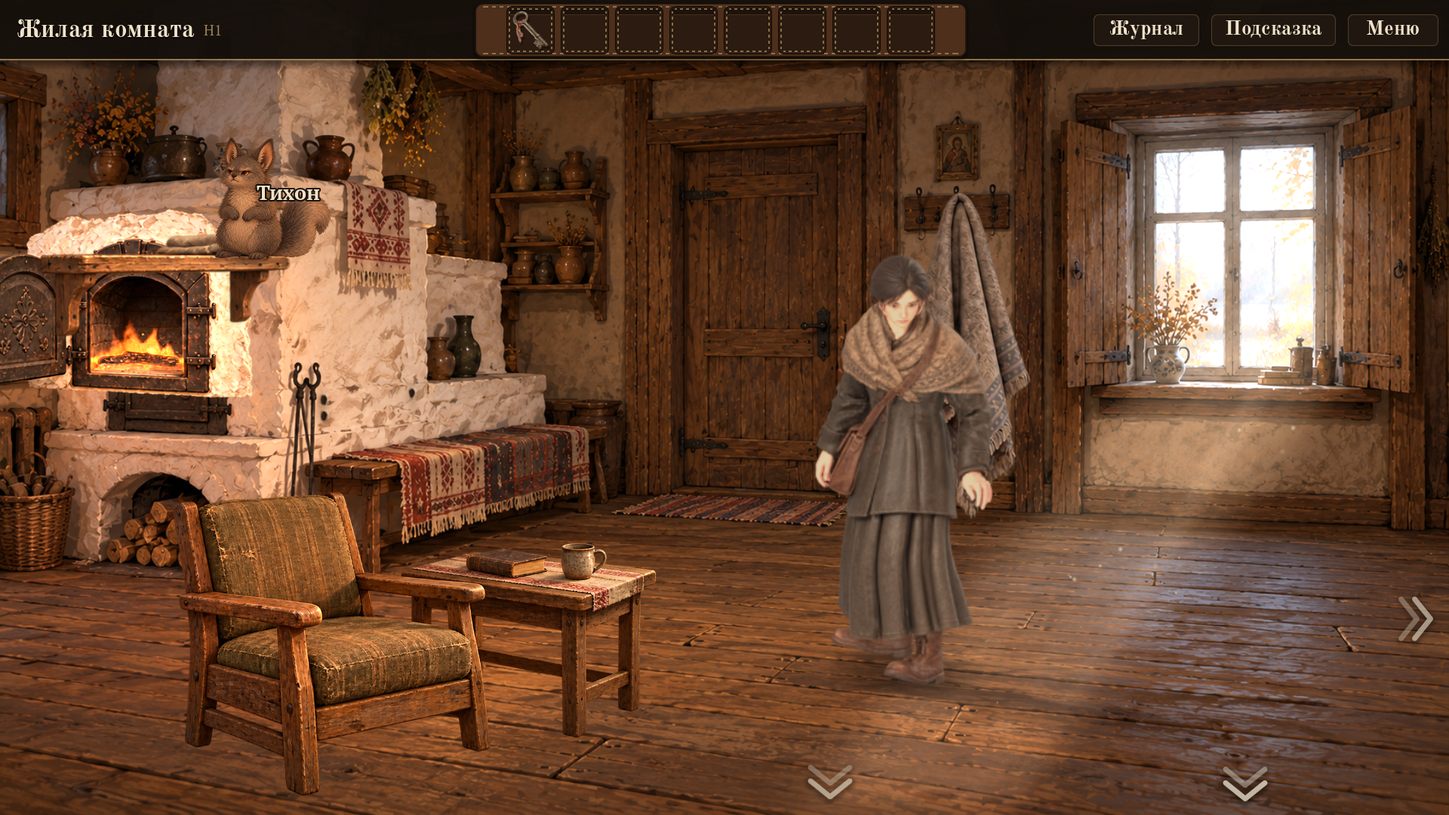
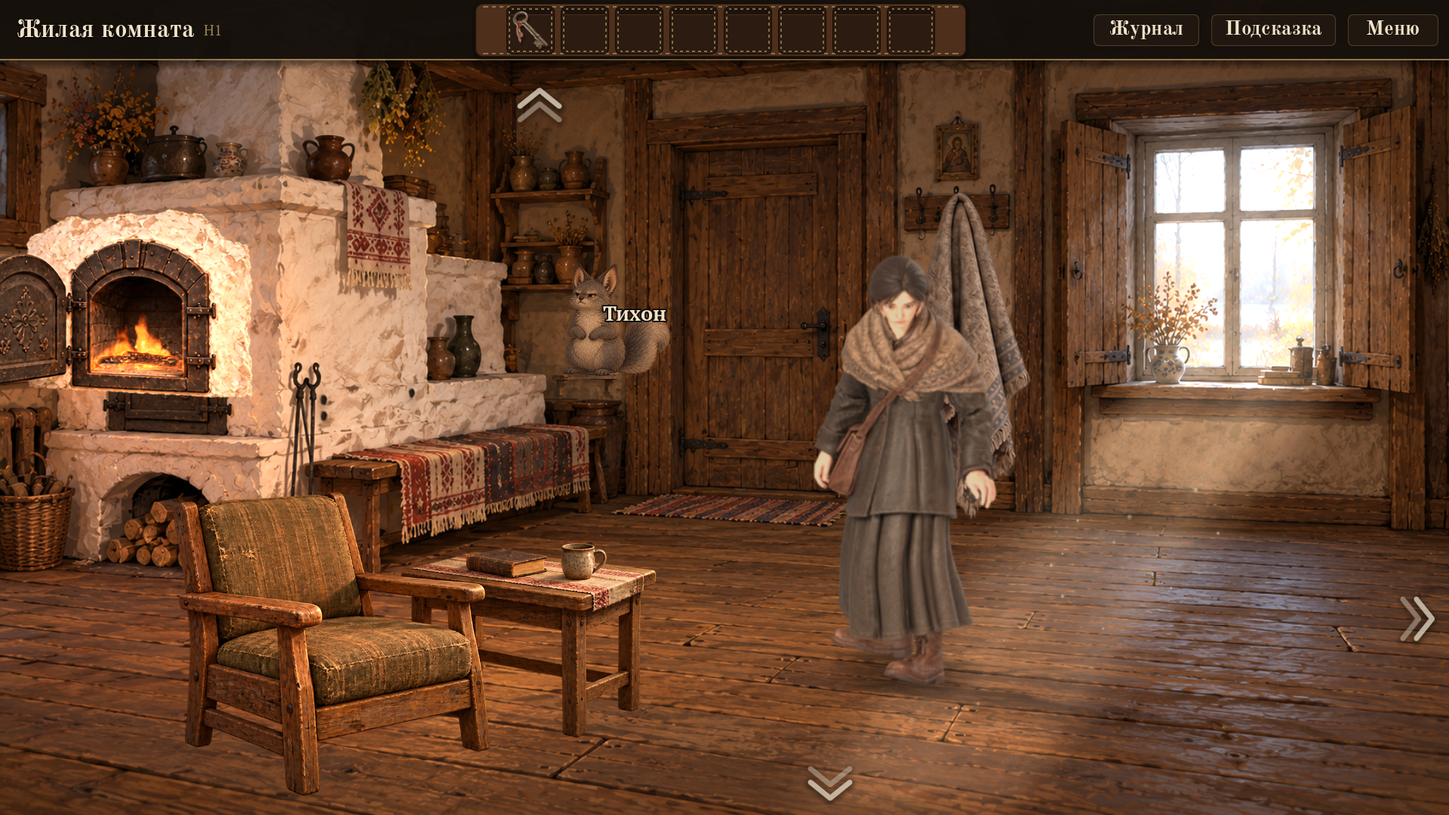
H1: полка B «у стола» — со лба печи над горячей дверцей на стену у двери на крыльцо, над столиком; Тихон на ней хвостом к двери
- По сценарию Q04 хвост Тихона не должен быть у горячей дверцы, а рисунок ChatGPT полки B висел на челе печи над ней (решение координатора 18.10).
- Полка перенесена на заднюю стену слева от двери на крыльцо, под угловые полки, над кадкой — в кадре прямо над столиком; масштаб по глубине стены, мягкая тень (tools/make_h1_layers.py, оригинал в assets/incoming не тронут); там же два гнезда под неё (слой holes_table).
- Тихон в варианте B — на этой полке (tikhon.json place.H1), смотрит влево, хвост к двери; хотспоты Тихона и полки следуют за ним.
- Тест test_h1: полка B не пересекает печь и дверцу, стоит на стене у двери, под ногами Тихона непрозрачная доска, хвост не к печи; гнёзда в двух местах. Кадр Docs/evidence/M1/H1_v2_07_shelf_b.png, приёмка п. 81, 88.

Claude-Session: https://claude.ai/code/session_01Qvdjz1zmfr41cRSvLxvjeK

diff --git a/tools/make_h1_layers.py b/tools/make_h1_layers.py
@@ -8,9 +8,13 @@
       длинная задняя кромка — вдоль грани, ближний к зрителю конец больше дальнего. Плюс мягкая тень на
       побелке, кочерги у угла печи остаются перед полкой (вырез по тёмному железу фона).
   state_holes_stove.png — гнёзда креплений на боковой грани там, где встанет полка A (видны, пока её нет),
-      и едва заметный след снятых опор (побелку обновляли вокруг них: «вещи помнят место»). Под полку B
-      (чело печи над дверцей) гнёзд нет: при stove_lit тот участок перерисовывает слой открытой дверцы
-      state_stove_open (другой масштаб, створка слева) — гнёзда то пропадали бы, то легли бы на створку;
+      и едва заметный след снятых опор (побелку обновляли вокруг них: «вещи помнят место»);
+  state_shelf_table.png — полка B «у стола» (Q04 B). Рисунок ChatGPT assets/incoming/H1_state_shelf_table.png
+      висел на челе печи над дверцей, а по сценарию Q04 хвост Тихона не должен быть у горячей дверцы
+      (координатор 18.10). Полка перенесена на заднюю стену слева от двери на крыльцо — под угловые полки с
+      кувшинами, над кадкой, в кадре прямо над столиком; стена фронтальна, поэтому преобразование —
+      масштаб по глубине стены (210,6 px/м у пола y 590) и мягкая тень влево-вниз (свет из окна справа);
+  state_holes_table.png — два гнезда и след опор под полку B на той же стене (видны, пока её нет);
   fg_chair_arm.png      — ближний подлокотник кресла (вырез из fg_table_chair.png, тот же холст): рисуется
       над Тихоном, когда он сидит в кресле (порядок: кресло z 950 < Тихон < подлокотник).
 
@@ -38,6 +42,7 @@ from PIL import Image, ImageChops, ImageDraw, ImageFilter
 ROOT = Path(__file__).resolve().parent.parent
 OUT = ROOT / "game" / "assets" / "rooms" / "H1"
 SRC_SHELF = ROOT / "assets" / "incoming" / "H1_state_shelf_stove.png"
+SRC_SHELF_B = ROOT / "assets" / "incoming" / "H1_state_shelf_table.png"
 BG = ROOT / "game" / "assets" / "rooms" / "H1" / "bg.png"
 CHAIR = ROOT / "game" / "assets" / "rooms" / "H1" / "fg_table_chair.png"
 
@@ -61,6 +66,21 @@ SRC_TOP, SRC_BOT = -80.0, 140.0   # поля исходного четырёху
 
 # Гнёзда A: на стене под кронштейнами, (глубина d, высота h) в метрах.
 HOLES_A = [(0.27, 0.70), (0.27, 0.63), (0.88, 0.70)]
+# Полка B «у стола» (координатор 18.10: по сценарию Q04 хвост не у горячей дверцы, а рисунок ChatGPT висел над
+# ней на челе печи): задняя стена слева от двери на крыльцо, под угловыми полками с кувшинами, над кадкой —
+# в кадре прямо над столиком. Стена фронтальна (параллельна кадру): перспектива сводится к масштабу по
+# глубине стены — пол у стены y 590 (низ двери), 210,6 px фона/м (камера 1,04 м). Свободный участок
+# побелки x 637–716 (левее — лежанка, правее — косяк двери), низ кронштейнов выше кадки (y 460).
+BACK_FLOOR_Y = 590.0
+PX_M_BACK = (BACK_FLOOR_Y - 371.0) / CAM_H
+B_X0, B_X1 = 637.0, 716.0           # концы доски, px фона
+B_TOP_H = 0.75                      # верх доски над полом, м
+# Исходный рисунок B: доска x 47–333, верхняя кромка y 294 (холст 1672x941, по альфе).
+SRC_B_A = (47.0, 294.0)
+SRC_B_B = (333.0, 294.0)
+SRC_B_TOP, SRC_B_BOT = -40.0, 100.0
+# Гнёзда B — на полосах кронштейнов у стены (x по прямой кромке кронштейна), чуть ниже доски.
+HOLES_B = [(644.0, 444.0), (703.0, 444.0)]
 # Кочерги у угла печи (железо темнее LUM_IRON) — перед полкой.
 POKER_BOX = (325, 400, 385, 520)
 LUM_IRON = 72
@@ -201,6 +221,52 @@ def build_holes_a() -> Image.Image:
     return img
 
 
+def back_y(h: float) -> float:
+    """y на задней стене (фронтальной) для высоты h м над полом."""
+    return 371.0 + (CAM_H - h) * PX_M_BACK
+
+
+def shelf_b_transform():
+    import cv2
+    s_len = SRC_B_B[0] - SRC_B_A[0]
+    k = (B_X1 - B_X0) / s_len                       # px фона на px рисунка
+    s = np.float32([[SRC_B_A[0], SRC_B_A[1] + SRC_B_TOP], [SRC_B_B[0], SRC_B_B[1] + SRC_B_TOP],
+                    [SRC_B_B[0], SRC_B_B[1] + SRC_B_BOT], [SRC_B_A[0], SRC_B_A[1] + SRC_B_BOT]])
+    y0 = back_y(B_TOP_H)
+    t = np.float32([[B_X0, y0 + SRC_B_TOP * k], [B_X1, y0 + SRC_B_TOP * k],
+                    [B_X1, y0 + SRC_B_BOT * k], [B_X0, y0 + SRC_B_BOT * k]])
+    return cv2.getPerspectiveTransform(s, t), k
+
+
+def build_shelf_b() -> Image.Image:
+    src = np.array(Image.open(SRC_SHELF_B).convert("RGBA"))
+    src[src[..., 3] < 24] = 0
+    m, _ = shelf_b_transform()
+    shelf = Image.fromarray(warp_rgba(src, m), "RGBA")
+    alpha = shelf.getchannel("A")
+    # Тень на стене: свет из окна справа скользит по задней стене — тень влево и вниз, мягкая.
+    sh_a = ImageChops.offset(alpha, -3, 4).filter(ImageFilter.GaussianBlur(3.5)).point(lambda v: int(v * 0.45))
+    shadow = Image.merge("RGBA", (*Image.new("RGB", (W, H), (40, 28, 18)).split(), sh_a))
+    out = Image.new("RGBA", (W, H), (0, 0, 0, 0))
+    out.alpha_composite(shadow)
+    out.alpha_composite(shelf)
+    return out
+
+
+def build_holes_b() -> Image.Image:
+    img = Image.new("RGBA", (W, H), (0, 0, 0, 0))
+    k = (B_X1 - B_X0) / (SRC_B_B[0] - SRC_B_A[0])
+    y_plank = back_y(B_TOP_H) + 20.0 * k
+    y_low = back_y(B_TOP_H) + 92.0 * k
+    for x, _y in HOLES_B:
+        ghost(img, [(x - 4, y_plank), (x + 4, y_plank), (x + 4, y_low), (x - 4, y_low)], 0.8)
+    ghost(img, [(B_X0 + 2, back_y(B_TOP_H) - 1), (B_X1 - 2, back_y(B_TOP_H) - 1), (B_X1 - 2, back_y(B_TOP_H) + 3), (B_X0 + 2, back_y(B_TOP_H) + 3)], 0.6)
+    r = 0.02 * PX_M_BACK
+    for i, (x, y) in enumerate(HOLES_B):
+        socket(img, x, y, r * 0.9, r, 0.6, 51 + i)
+    return img
+
+
 def build_chair_arm() -> Image.Image:
     ch = Image.open(CHAIR).convert("RGBA")
     mask = Image.new("L", ch.size, 0)
@@ -214,6 +280,8 @@ def outputs() -> dict[str, Image.Image]:
     return {
         "state_shelf_stove.png": build_shelf(),
         "state_holes_stove.png": build_holes_a(),
+        "state_shelf_table.png": build_shelf_b(),
+        "state_holes_table.png": build_holes_b(),
         "fg_chair_arm.png": build_chair_arm(),
     }
 
@@ -227,6 +295,10 @@ def geometry() -> dict:
         "shelf_a_top_mid_front": screen(wall_xy((d0 + d1) / 2, SHELF_TOP_H, 0.12)),
         "shelf_a_floor_mid": screen(wall_xy((d0 + d1) / 2, 0.0, 0.12)),
         "holes_a": [screen(wall_xy(d, h)) for d, h in HOLES_A],
+        "shelf_b_top_left": screen((B_X0, back_y(B_TOP_H))),
+        "shelf_b_top_right": screen((B_X1, back_y(B_TOP_H))),
+        "shelf_b_floor_y": round(BACK_FLOOR_Y * ART, 1),
+        "holes_b": [screen(p) for p in HOLES_B],
     }
 
 

diff --git a/Docs/ACCEPTANCE_M1.md b/Docs/ACCEPTANCE_M1.md
@@ -117,14 +117,14 @@
 | № | Что сделать | Как должно работать | Ок? |
 | --- | --- | --- | --- |
 | 80 | Новая игра → поговорить с Тамарой → переулок → улица → дом (H1). Ничего не трогать | Тихон уже в комнате, ничего не «появляется»: сидит на подушке переднего кресла слева, смотрит вправо, в комнату. Ближний подлокотник кресла — перед ним (закрывает хвост и низ), голова и уши видны над подлокотником; сидит на подушке, не висит в воздухе. Дышит, поводит ушами, хвост покачивается | |
-| 81 | Посмотреть на светлый бок печи над лавкой (правее кочерёг) | Три небольших тёмных гнезда в побелке: два одно над другим у кочерги, одно дальше вглубь. Похожи на дырки от креплений, не на пуговицы или пятна | |
+| 81 | Посмотреть на светлый бок печи над лавкой (правее кочерёг); затем на стену слева от двери на крыльцо, под угловыми полками с кувшинами | На боку печи — три небольших тёмных гнезда в побелке: два одно над другим у кочерги, одно дальше вглубь. На стене у двери — ещё два (второе место для полки, «крепления в двух местах»). Похожи на дырки от креплений, не на пуговицы или пятна | |
 | 82 | Навести курсор на дверцу печи, на побелку рядом с ней, на дрова в подпечье, на бок печи; потом на горшки над печью | Над всеми частями печи — подпись «Печь» рядом с курсором; над горшками и трубой — нет. Над гнёздами на боку — «Крепления для полки» | |
 | 83 | Щёлкнуть по дверце печи | Агата идёт к печи и встаёт прямо перед дверцей (левее кресла), печь растоплена: дверца открыта, огонь | |
 | 84 | Щёлкнуть по печи ещё раз | Текст: «Печь с лежанкой. Здесь место Тихона. Сбоку в побелке — старые гнёзда от креплений: место помнит, что здесь висело.» Новая фраза пока только субтитрами (старая запись голоса без неё не звучит, перезапись — отдельно) | |
 | 85 | Щёлкнуть по Тихону в кресле; затем открыть ставню и убрать мокрый платок | Щелчок по Тихону — короткий осмотр, разговор раньше времени не начинается. После платка — разговор, как раньше: «На сухое мокрое не кладут», «Ты здесь один?» — «Печь тоже здесь», «Ушла к Нине. Я жду». Тихон говорит из кресла (голос чуть слева). Повторный щелчок по нему — только осмотр, разговор не повторяется | |
 | 86 | Щёлкнуть по гнёздам на боку печи, выбрать «В углу у печи» | На боку печи появляется небольшая полка с подстилкой, прижатая к печи широкой стороной, с мягкой тенью на побелке; гнёзд больше не видно; кочерги остаются перед полкой. Тихон пересаживается из кресла на полку, смотрит в комнату, хвост свешивается. Дальше его реплики «Это кабинет…», «приёмные часы». Затем щелчок по Тихону на полке — его осмотр; по полке под ним — «Полка закреплена, подстилка на месте…»; по дверце — печь | |
 | 87 | F5 → F9; затем «Меню» → слот → «Сохранить» → новая игра → «Загрузить» этот слот | Тихон на полке у печи, полка на месте, гнёзд нет; ни один разговор не повторяется, в сумке ничего не прибавилось и не пропало | |
-| 88 | Другой вариант (новая игра или слот до полки): выбрать «У стола» | Полка над дверцей печи (как было), Тихон сидит на ней у правого края, хвост в сторону от дверцы — по сценарию Q04 «чтобы хвост не оказался возле горячей дверцы»; гнёзда на боку печи остаются (второе место крепления) | |
+| 88 | Другой вариант (новая игра или слот до полки): выбрать «У стола» | Полка появляется **не на печи**: на стене слева от двери на крыльцо, под угловыми полками, прямо над столиком, с мягкой тенью; гнёзда на этой стене скрыты под ней. Тихон пересаживается из кресла на эту полку, сидит на подстилке (не висит в воздухе), смотрит влево, хвост свешивается вправо — к двери, не к печи (по сценарию Q04 хвост не должен быть у горячей дверцы). Гнёзда на боку печи остаются (второе место крепления) | |
 | 89 | Выходы из H1: навести курсор на дверь в центре, на метку «вниз» у нижнего края, на метку «вверх» под потолком в углу над печью; щёлкнуть метку «вверх», на чердаке — выход вниз | Дверь — «На крыльцо» (нарисованная дверь, без стрелки); внизу одна метка — «В галерею»; вверху у печи — «На чердак» (стрелка вверх: лестницы на картинке нет, лаз — у трубы). Щелчок вверху — Агата идёт в угол к печи и поднимается на чердак; с чердака спускается туда же, к печи. Ни одна видимая дверь не ведёт «в никуда» | |
 
 Проход в галерею (H3) — у нижнего края кадра, «за спиной зрителя»: двери в галерею на картинке H1 нет (видимая дверь в центре — на крыльцо, Z2; слева печь и окно, справа — мастерская), метка «вниз» — из подсказок выходов (пп. 90–94). Проверено до передачи: автотест `game/tests/test_h1.gd` (клик по частям печи, Тихон с начала в кресле — ноги на подушке, порядок кресло < Тихон < подлокотник, M03 один раз и не после загрузки, полка A/B, гнёзда), веб-сборка настоящими кликами `node tools/h1_web.mjs`, кадры `Docs/evidence/M1/H1_v2_*.png`.

diff --git a/Docs/CURRENT_STATE.md b/Docs/CURRENT_STATE.md
@@ -14,7 +14,7 @@
 
 ### Жилая H1: печь, Тихон с самого начала, полка у печи, чердак вверх (18.10; приёмка — `ACCEPTANCE_M1.md` п. 80–89)
 - **Печь:** хотспот — тело печи от карниза до пола (дверца/устье, чело, подпечье, боковая грань), горшки над карнизом — не печь; стоянка перед дверцей (215, 795). Гнёзда, платок, Тихон, полка — поверх по `pick_priority`.
-- **Полка A** (`state_shelf_stove.png`) — рисунок ChatGPT переложен перспективой (OpenCV) на боковую грань печи широкой стороной к печи, тень на побелке, кочерги перед полкой — `tools/make_h1_layers.py` (геометрия грани в docstring; `--check`). Бриф ChatGPT не понадобился: на кадре 1920×1080 полка читается прикреплённой. **Гнёзда** (`state_holes_stove.png`, `unless q04_corner_stove`) — три гнезда и едва заметный след опор; под полку B гнёзд нет (там при stove_lit слой открытой дверцы).
+- **Полка A** (`state_shelf_stove.png`) — рисунок ChatGPT переложен перспективой (OpenCV) на боковую грань печи широкой стороной к печи, тень на побелке, кочерги перед полкой — `tools/make_h1_layers.py` (геометрия грани в docstring; `--check`). Бриф ChatGPT не понадобился: на кадре 1920×1080 полка читается прикреплённой. **Гнёзда** (`state_holes_stove.png`, `unless q04_corner_stove`) — три гнезда и едва заметный след опор. **Полка B** «у стола» (координатор 18.10: рисунок ChatGPT висел над горячей дверцей, а по сценарию Q04 хвост не у дверцы) перенесена на заднюю стену слева от двери на крыльцо — под угловые полки, над столиком; масштаб по глубине стены, тень; там же свои два гнезда (`state_holes_table.png`, `unless q04_shelf_table`). Тихон в варианте B — на ней, хвостом к двери, не к печи.
 - **Тихон** в H1 с первого входа (без `visible_if`): `tikhon.json place.H1` — список мест по флагам (кресло → полка A / полка B), `z`, `mirror`; хотспот `states[].rect/stand` (новое общее поле, `StoryHotspot._apply_geometry`). В кресле — между креслом (z 950) и ближним подлокотником `fg_chair_arm.png` (z 970); 0,33 роста Агаты. M03 — как раньше третьим шагом, один раз.
 - **Выходы H1:** дверь в центре — крыльцо (`cue: door`); галерея — нижний край («вниз», двери в арте нет); чердак — метка «вверх» под потолком в углу у печи, с чердака Агата спускается туда же.
 - Тексты: `H1.stove.look` (+ фраза о гнёздах — голос устарел, субтитры), `H1.shelf.label` «Крепления для полки».

diff --git a/Docs/ASSET_PROVENANCE.md b/Docs/ASSET_PROVENANCE.md
@@ -37,7 +37,7 @@
 - `game/assets/icons/<item_id>.png` — копии `assets/icons/<item_id>.png` (конвейер Meshy, run 39065730914), обрезанные по видимому предмету и уменьшенные до 192 px скриптом `tools/sync_icons.sh` (Pillow, Lanczos; цвет не меняется). Провенанс исходников — в записи конвейера.
 
 ## 2026-10-18 — слои H1, выведенные из арта ChatGPT (замечания Директора по H1)
-- `game/assets/rooms/H1/state_shelf_stove.png` — полка A: рисунок ChatGPT `assets/incoming/H1_state_shelf_stove.png` (пакет E0–E1 v1), зеркально и перспективным преобразованием (OpenCV `warpPerspective`) переложен на боковую грань печи фона `H1_bg.png`; мягкая тень и вырез под кочерги — по фону. `state_holes_stove.png` — гнёзда креплений и след опор, нарисованы кодом (Pillow) в тон побелки фона. `fg_chair_arm.png` — вырез подлокотника из `H1_fg_table_chair.png` (тот же холст). Всё строит `tools/make_h1_layers.py` (оригиналы не меняются; `--check` сверяет копии). Права — как у исходного арта ChatGPT.
+- `game/assets/rooms/H1/state_shelf_stove.png` — полка A: рисунок ChatGPT `assets/incoming/H1_state_shelf_stove.png` (пакет E0–E1 v1), зеркально и перспективным преобразованием (OpenCV `warpPerspective`) переложен на боковую грань печи фона `H1_bg.png`; мягкая тень и вырез под кочерги — по фону. `state_holes_stove.png` — гнёзда креплений и след опор, нарисованы кодом (Pillow) в тон побелки фона. `fg_chair_arm.png` — вырез подлокотника из `H1_fg_table_chair.png` (тот же холст). `state_shelf_table.png` — полка B: рисунок ChatGPT `assets/incoming/H1_state_shelf_table.png`, масштабом по глубине перенесён с чела печи на заднюю стену у двери на крыльцо, тень — кодом; `state_holes_table.png` — гнёзда под неё (Pillow). Всё строит `tools/make_h1_layers.py` (оригиналы не меняются; `--check` сверяет копии). Права — как у исходного арта ChatGPT.
 
 ## 2026-10-17 (ночь) — пакет ChatGPT по брифу v3
 - ChatGPT imagegen по `Docs/BRIEF_CHATGPT_v3.md` (коммит f3bc29d) и эталонам `assets/reference/`. Файлы в `assets/incoming/`: Z4 (фон, забор, слои качания), мельница M1 (фон, колесо отдельно, мешки), M2 (фон и полный фон без зеркала), M3 (фон, край стола), M4 (фон, рычаг в двух положениях), Тихон (собранный, голова, хвост — запасной вариант брифа). Размеры, хеши, ограничения и промпты — `assets/incoming/_meta_v3/`.
